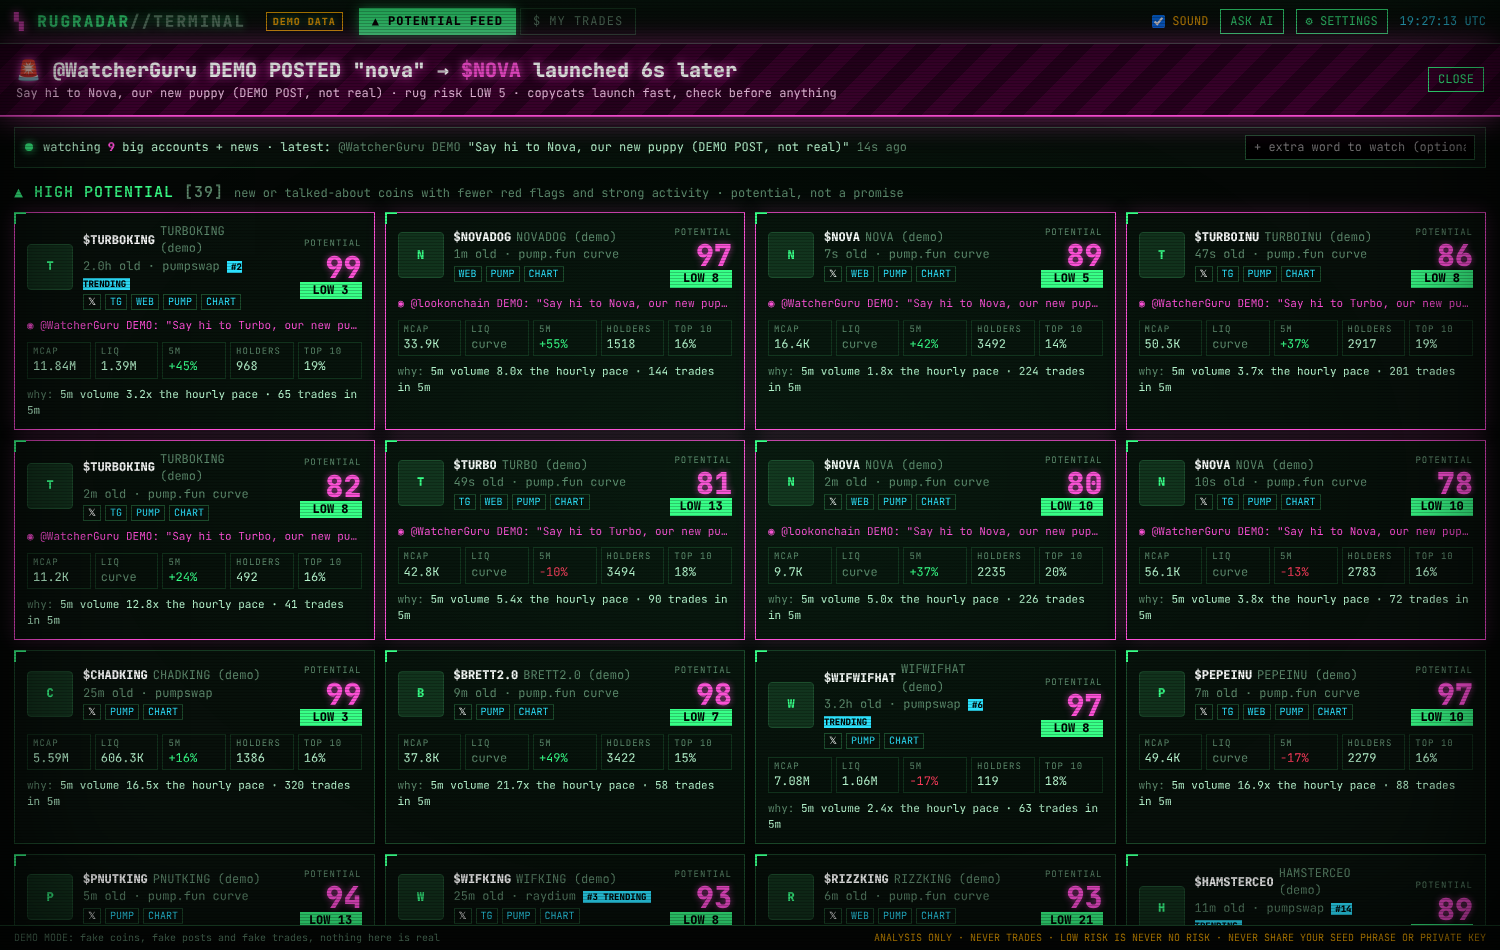
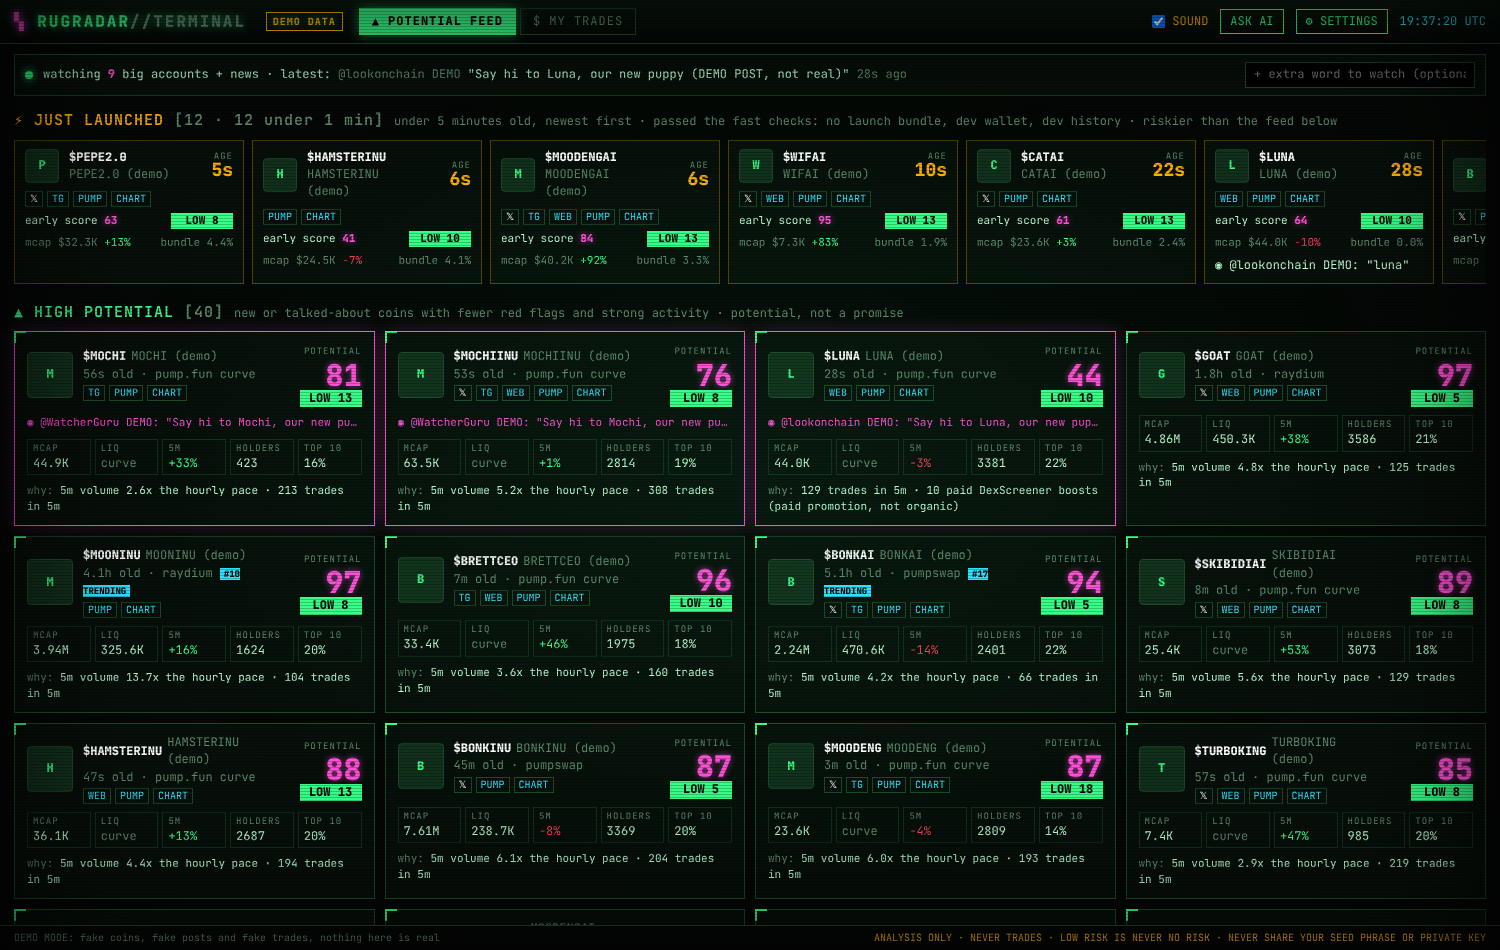
v0.5.1: JUST LAUNCHED lane for coins in their first minutes
- Brand-new coins jump the check queue; bundle check runs within seconds of launch
- pump.fun info re-read every 15s for coins under 3 minutes to measure early growth
- Early score needs bundle and dev-wallet checks done and no red flag

Claude-Session: https://claude.ai/code/session_0151gEfWoMXXuECF3fxW9xQo

Changed region(s): [[0.0, 0.0305, 1.0, 0.9768]]

diff --git a/public/app.js b/public/app.js
@@ -74,6 +74,7 @@ es.onmessage = ev => {
   state = JSON.parse(ev.data);
   renderTop();
   renderRadar();
+  renderFresh();
   renderFeed();
   checkAlerts();
   firstFrame = false;
@@ -103,6 +104,35 @@ $('#watchForm').addEventListener('submit', e => {
   const w = $('#watchInput').value.trim();
   if (w) post('/api/watch', { word: w });
   $('#watchInput').value = '';
+});
+
+// ---------- Just launched lane ----------
+const seenFresh = new Set();
+const ageSec = t => { const s = Math.max(0, (Date.now() - t) / 1000); return s < 60 ? `${s | 0}s` : `${(s / 60) | 0}m${String((s % 60) | 0).padStart(2, '0')}`; };
+function renderFresh() {
+  const list = state.coins.filter(c => c.fresh != null).sort((a, b) => b.createdAt - a.createdAt).slice(0, 12);
+  const under1 = list.filter(c => Date.now() - c.createdAt < 60_000).length;
+  $('#freshCount').textContent = `[${list.length} · ${under1} under 1 min]`;
+  if (!list.length) {
+    const young = state.coins.filter(c => Date.now() - (c.createdAt ?? 0) < 5 * 60_000).length;
+    $('#freshLane').innerHTML = `<div class="emptymsg">${young} coins launched in the last 5 minutes. None has passed the fast checks yet (most are bundled or made by brand-new dev wallets).</div>`;
+    return;
+  }
+  $('#freshLane').innerHTML = list.map(c => {
+    const isNew = !seenFresh.has(c.mint) && !firstFrame; seenFresh.add(c.mint);
+    return `<div class="fcoin ${isNew ? 'fresh' : ''}" data-m="${esc(c.mint)}">
+      <div class="tok">${coinImg(c)}<div style="min-width:0"><div class="t1"><b>$${esc(c.symbol ?? '???')}</b></div><div class="nm">${esc(c.name)}</div></div>
+        <div class="agebig"><small>AGE</small>${ageSec(c.createdAt)}</div></div>
+      ${linkRow(c)}
+      <div class="r"><span>early score <b class="pot">${c.fresh}</b></span>${riskBadge(c.risk, c.grade)}</div>
+      <div class="r dim"><span>mcap $${num(c.mcap)} ${c.growth != null ? pct(c.growth, 0) : ''}</span><span>bundle ${c.bundle?.pct != null ? c.bundle.pct.toFixed(1) + '%' : '–'}</span></div>
+      ${c.news ? `<div class="post">◉ ${esc(c.news.author ?? 'news')}: "${esc(c.news.keyword)}"</div>` : ''}
+    </div>`;
+  }).join('');
+}
+$('#freshLane').addEventListener('click', e => {
+  if (e.target.closest('a')) return;
+  const el = e.target.closest('[data-m]'); if (el) select(el.dataset.m);
 });
 
 // ---------- The feed ----------
@@ -145,7 +175,7 @@ function checkAlerts() {
     alerted.add('n' + a.id);
     if (!firstFrame && Date.now() - a.at < 60_000 && a.strong) siren ??= a;
   }
-  for (const c of state.coins) if (c.feed && !alerted.has('f' + c.mint)) { alerted.add('f' + c.mint); if (!firstFrame) newFeed++; }
+  for (const c of state.coins) if ((c.feed || c.fresh != null) && !alerted.has('f' + c.mint)) { alerted.add('f' + c.mint); if (!firstFrame) newFeed++; }
   if (siren) showSiren(siren);
   else if (newFeed && $('#sound').checked) beep();
 }

diff --git a/src/engine.js b/src/engine.js
@@ -55,7 +55,8 @@ function evict() {
 
 function interest(c) {
   const age = (Date.now() - (c.createdAt ?? c.firstSeen)) / 60_000;
-  return (c.market?.vol5m ?? 0) / 100 + (c.momentum?.score ?? 0) * 5 - age;
+  // Coins in their first ~90 seconds jump the queue so the JUST LAUNCHED lane gets checked fast.
+  return (c.market?.vol5m ?? 0) / 100 + (c.momentum?.score ?? 0) * 5 - age + (age < 1.5 ? 60 : 0);
 }
 
 // ---- Enrichment: on-chain + RugCheck + dev wallet, one coin at a time ----
@@ -115,12 +116,15 @@ async function enrichLoop() {
 let bundleBusy = false;
 async function bundleTick() {
   if (bundleBusy) return;
+  // Brand-new pump.fun coins (supply is always 1B) are checked first, then older clean-looking coins.
+  const ageOf = c => Date.now() - (c.createdAt ?? c.firstSeen ?? 0);
+  const fresh = c => /pump$/.test(c.mint) && ageOf(c) < 180_000 && ageOf(c) > 4_000;
   const cand = [...coins.values()]
-    .filter(c => !c.bundle && c.chain?.supply && c.risk && c.risk.score < 50 && Date.now() - (c.createdAt ?? c.firstSeen ?? 0) < 24 * 3600_000)
-    .sort((a, b) => interest(b) - interest(a))[0];
+    .filter(c => !c.bundle && (fresh(c) || (c.chain?.supply && c.risk && c.risk.score < 50 && ageOf(c) < 24 * 3600_000)))
+    .sort((a, b) => (fresh(b) - fresh(a)) || interest(b) - interest(a))[0];
   if (!cand) return;
   bundleBusy = true;
-  try { cand.bundle = await bundleCheck(cand.mint, cand.creator ?? cand.rug?.creator, cand.chain.supply); }
+  try { cand.bundle = await bundleCheck(cand.mint, cand.creator ?? cand.rug?.creator, cand.chain?.supply ?? 1e9); }
   catch (e) { cand.bundle = { failed: true, checkedAt: Date.now() }; setTimeout(() => { if (cand.bundle?.failed) delete cand.bundle; }, 120_000); }
   finally { bundleBusy = false; }
   rescore(cand);
@@ -170,10 +174,15 @@ async function jupTick() {
 
 // pump.fun coin page data (image, socials, comments) for pump coins, one at a time.
 async function pumpInfoTick() {
-  const next = [...coins.values()].filter(c => /pump$/.test(c.mint) && (!c.info || Date.now() - c.info.checkedAt > 5 * 60_000))
+  // Coins under 3 minutes old are re-read every 15s to see how fast they grow.
+  const due = c => !c.info || Date.now() - c.info.checkedAt > (Date.now() - (c.createdAt ?? c.firstSeen) < 180_000 ? 15_000 : 5 * 60_000);
+  const next = [...coins.values()].filter(c => /pump$/.test(c.mint) && due(c))
     .sort((a, b) => interest(b) - interest(a))[0];
   if (!next) return;
-  try { next.info = await pumpInfo(next.mint); next.image ??= next.info.image; }
+  try {
+    next.info = await pumpInfo(next.mint); next.image ??= next.info.image;
+    if (next.info.usdMcap) next.firstMcapUsd ??= next.info.usdMcap;
+  }
   catch { next.info = { checkedAt: Date.now(), failed: true }; }
   rescore(next);
 }

diff --git a/src/demo.js b/src/demo.js
@@ -11,16 +11,17 @@ const pick = a => a[Math.floor(Math.random() * a.length)];
 const B58 = '123456789ABCDEFGHJKLMNPQRSTUVWXYZabcdefghijkmnopqrstuvwxyz';
 const addr = () => Array.from({ length: 44 }, () => pick(B58)).join('');
 
-function spawn(forced) {
+function spawn(forced, live) {
   const mint = addr().slice(0, 40) + 'pump';
   const sym = forced ?? pick(WORDS) + pick(SUF);
   const shady = Math.random() < 0.45;
-  const graduated = !forced && Math.random() < 0.4;
+  const graduated = !forced && !live && Math.random() < 0.4;
   const top = Array.from({ length: 12 }, () => ({ address: addr(), pct: shady ? rnd(0.8, 7) : rnd(0.3, 3), insider: shady && Math.random() < 0.3 })).sort((a, b) => b.pct - a.pct);
-  const created = forced ? Date.now() : Date.now() - rnd(0, graduated ? 6 * 3600_000 : 600_000);
+  const created = forced || live ? Date.now() - rnd(0, 3_000) : Date.now() - rnd(0, graduated ? 6 * 3600_000 : 600_000);
   const devAge = shady ? rnd(0.02, 3) : rnd(5, 900);
   const mcap = graduated ? rnd(80_000, 8_000_000) : rnd(4_000, 60_000);
   upsert(mint, {
+    firstMcapUsd: mcap * rnd(0.45, 1.1),
     demo: true, name: `${sym} (demo)`, symbol: sym, creator: addr(), createdAt: created,
     sources: [graduated ? 'graduated' : 'pump-launch'],
     pump: { graduated, devBuyPct: rnd(0, shady ? 12 : 3) },
@@ -81,7 +82,7 @@ export function startDemo() {
   setTimeout(fakeNews, 8_000);
   setInterval(fakeNews, 40_000);
   for (let i = 0; i < 40; i++) spawn();
-  setInterval(() => Math.random() < 0.6 && spawn(), 1_500);
+  setInterval(() => Math.random() < 0.6 && spawn(null, true), 1_500);
   setInterval(drift, 1_000);
   setTimeout(() => { for (let i = 0; i < 5; i++) fakeTrade(); setInterval(fakeTrade, 35_000); }, 3_000);
 }

diff --git a/public/style.css b/public/style.css
@@ -93,6 +93,18 @@ input:focus { border-color: var(--green); }
 .kv { display: grid; grid-template-columns: repeat(5, 1fr); gap: 4px; }
 .kv div { border: 1px solid var(--line); padding: 2px 5px; min-width: 0; }
 .kv i { display: block; font-style: normal; color: var(--dim); font-size: 9px; letter-spacing: 1px; }
+.ttl.fresh { color: var(--amber); font-size: 15px; }
+.lane { display: grid; grid-auto-flow: column; grid-auto-columns: minmax(230px, 1fr); gap: 8px; overflow-x: auto; padding-bottom: 4px; }
+.lane > * { min-width: 0; }
+.fcoin { background: var(--panel); border: 1px solid #5a4300; padding: 8px 10px; cursor: pointer; display: flex; flex-direction: column; gap: 6px; position: relative; }
+.fcoin:hover { border-color: var(--amber); box-shadow: 0 0 14px rgba(255,176,0,.2); }
+.fcoin.fresh { animation: freshA 2s ease-out; }
+@keyframes freshA { from { background: rgba(255,176,0,.25) } to { background: var(--panel) } }
+.fcoin .tok img, .fcoin .tok .ph { width: 34px; height: 34px; }
+.fcoin .agebig { margin-left: auto; text-align: right; flex: none; color: var(--amber); font-weight: 800; font-size: 18px; line-height: 1; }
+.fcoin .agebig small { display: block; color: var(--dim); font-size: 9px; font-weight: 400; letter-spacing: 1px; }
+.fcoin .r { display: flex; justify-content: space-between; font-size: 11px; gap: 6px; }
+.lane .emptymsg { grid-column: auto; padding: 14px; }
 .emptymsg { color: var(--dim); padding: 30px 10px; text-align: center; grid-column: 1 / -1; border: 1px dashed var(--line2); }
 
 /* Siren banner */

diff --git a/src/score.js b/src/score.js
@@ -198,3 +198,27 @@ export function potentialScore(risk, mom) {
   if (fs.some(x => x.key === 'bundle' && x.status === 'unknown')) return null;
   return Math.round((mom?.score ?? 0) * 0.65 + (100 - risk.score) * 0.35);
 }
+
+// JUST LAUNCHED lane (coins under 5 minutes old). Most full checks need time,
+// so this uses the ones that work in the first seconds: launch bundle, dev
+// wallet age and history, dev's own buy, authorities, plus early growth.
+// A coin with any red flag, or whose bundle/dev checks aren't done, gets null.
+export function freshScore(c, risk, mom) {
+  const age = Date.now() - (c.createdAt ?? c.firstSeen ?? 0);
+  if (!risk || !c.pump || age > 5 * 60_000 || risk.score >= 50) return null;
+  const fs = risk.factors ?? [];
+  if (fs.some(x => x.status === 'bad')) return null;
+  const st = k => fs.find(x => x.key === k)?.status;
+  if (!st('bundle') || st('bundle') === 'unknown' || st('devage') === 'unknown' || !st('devage')) return null;
+  let s = 45 - risk.score / 2;
+  const now = c.info?.usdMcap ?? c.market?.mcap, first = c.firstMcapUsd;
+  if (now && first) s += Math.max(-15, Math.min(25, (now / first - 1) * 25));
+  const soc = c.info ?? c.jup ?? {};
+  if (soc.twitter) s += 8;
+  if (soc.website) s += 4;
+  if ((c.info?.replies ?? 0) > 5) s += 5;
+  if (c.info?.kingOfHill) s += 10;
+  if (c.newsMatch) s += 15;
+  s += Math.min(10, (mom?.score ?? 0) / 8);
+  return Math.max(1, Math.min(99, Math.round(s)));
+}

diff --git a/server.js b/server.js
@@ -4,7 +4,7 @@ import { join, extname, normalize } from 'node:path';
 import { config, ROOT, isPublicRpc, publicSettings, saveSettings } from './src/config.js';
 import { alerts, watchWords, addManual, removeWord, radarInfo } from './src/sources/news.js';
 import { coins, start, pin, cadence } from './src/engine.js';
-import { potentialScore } from './src/score.js';
+import { potentialScore, freshScore } from './src/score.js';
 import { startDemo } from './src/demo.js';
 import { handleChat } from './src/chat.js';
 import { statusSnapshot } from './src/http.js';
@@ -48,6 +48,9 @@ function summary(c) {
     // The main feed: coins that pass the potential filter AND are new or were posted/talked about.
     feed: potentialScore(c.risk, c.momentum) != null && (Date.now() - (c.createdAt ?? m.pairCreatedAt ?? c.firstSeen ?? 0) < 2 * 3600_000 || !!c.newsMatch || !!c.gtRank),
     bundle: c.bundle ?? null,
+    fresh: freshScore(c, c.risk, c.momentum),
+    devAgeDays: c.dev?.ageDays ?? null,
+    growth: c.firstMcapUsd && (c.info?.usdMcap ?? m.mcap) ? ((c.info?.usdMcap ?? m.mcap) / c.firstMcapUsd - 1) * 100 : null,
     why: c.momentum?.reasons?.slice(0, 2),
     organic: c.jup?.organicScore != null ? Math.round(c.jup.organicScore) : null,
     gtRank: c.gtRank ?? null,

diff --git a/test/score.test.js b/test/score.test.js
@@ -101,3 +101,13 @@ test('a bundled launch blocks the coin', () => {
   const r = riskScore({ ...base, bundle: { wallets: 30, sameBlock: 12, pct: 28 } });
   assert.equal(r.factors.find(f => f.key === 'bundle').status, 'bad');
 });
+
+test('just-launched score needs the bundle and dev checks done and no red flag', async () => {
+  const { freshScore } = await import('../src/score.js');
+  const c = { pump: {}, createdAt: Date.now() - 30_000, firstMcapUsd: 5000, info: { usdMcap: 10000, twitter: 'x' } };
+  const okRisk = { score: 10, factors: [{ key: 'bundle', status: 'ok' }, { key: 'devage', status: 'warn' }] };
+  assert.ok(freshScore(c, okRisk, { score: 40 }) > 0);
+  assert.equal(freshScore(c, { score: 10, factors: [{ key: 'bundle', status: 'unknown' }, { key: 'devage', status: 'ok' }] }, {}), null);
+  assert.equal(freshScore(c, { score: 10, factors: [{ key: 'bundle', status: 'ok' }, { key: 'devage', status: 'bad' }] }, {}), null);
+  assert.equal(freshScore({ ...c, createdAt: Date.now() - 10 * 60_000 }, okRisk, {}), null);
+});

diff --git a/public/index.html b/public/index.html
@@ -39,6 +39,12 @@
   </section>
 
   <div class="feedhead">
+    <span class="ttl fresh">⚡ JUST LAUNCHED <span id="freshCount" class="dim"></span></span>
+    <span class="dim">under 5 minutes old, newest first · passed the fast checks: no launch bundle, dev wallet, dev history · riskier than the feed below</span>
+  </div>
+  <div id="freshLane" class="lane"></div>
+
+  <div class="feedhead">
     <span class="ttl">▲ HIGH POTENTIAL <span id="count" class="dim"></span></span>
     <span class="dim">new or talked-about coins with fewer red flags and strong activity · potential, not a promise</span>
   </div>

diff --git a/README.md b/README.md
@@ -37,6 +37,7 @@ Optional, in **⚙ SETTINGS**:
 ## What's on the screen
 
 - **Siren:** when a built-in big account (Trump on Truth Social, WatcherGuru, Lookonchain, Whale Alert, plus headlines about Elon Musk, Trump, CZ and MrBeast) posts a name and a coin with that name launches, a flashing banner and a loud siren go off. It shows how many seconds after the post the coin launched, and its rug risk. Copycats launch fast, so check first.
+- **Just launched:** coins from their first seconds up to 5 minutes old, newest first, that passed the fast checks (no launch bundle, dev wallet not brand new, dev not a serial launcher, no red flag). They get an early score from growth since launch, socials, comments and news matches. These are riskier than the main feed because holder and liquidity checks need more time.
 - **High potential feed:** the only list. It shows coins that are new (under 2 hours) or being posted or talked about, **and** pass every check: LOW or MEDIUM risk, most checks done, no red flag at all, and no big bundle at launch. The feed can be quiet. That's the filter doing its job.
 - **Coin check:** click a coin for its picture, description, every link (X, Telegram, website, the post, pump.fun, chart, RugCheck, Bubblemaps, Solscan), the three scores and "What we found" in plain English.
 - **My trades:** add your wallet address and see every swap with what you spent, what you got back, profit taken and open profit. Each winning sell gets a printed **profit receipt** with a stamp and a sound. New winning sells pop the receipt automatically.
